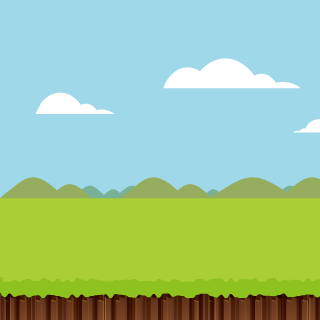
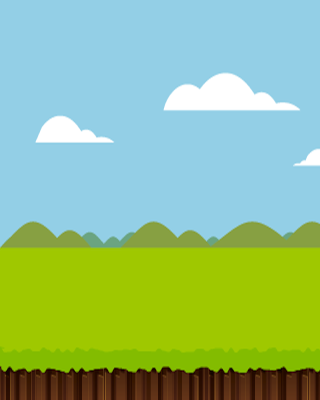
スマホサイズに調整

diff --git a/works/012/js/main.js b/works/012/js/main.js
@@ -1,7 +1,7 @@
 enchant(); // 初期化
  
 window.onload = function() {
-    var game = new Game(320, 320); // ゲーム本体を準備すると同時に、表示される領域の大きさを設定しています。
+    var game = new Game(320, 400); // ゲーム本体を準備すると同時に、表示される領域の大きさを設定しています。
     game.fps = 24; // frames（フレーム）per（毎）second（秒）：ゲームの進行スピードを設定しています。
     game.preload('./img/bg1.png','./img/chara1.png','./img/icon0.png','./img/start.png','./img/gameover.png'); // pre（前）-load（読み込み）：ゲームに使う素材をあらかじめ読み込んでおきます。
 
@@ -21,7 +21,7 @@ window.onload = function() {
             var startImage = new Sprite(236, 48);                   // スプライトを作る
             startImage.image = game.assets['./img/start.png'];     // スタート画像を設定
             startImage.x = 42;                                      // 横位置調整
-            startImage.y = 136;                                     // 縦位置調整
+            startImage.y = 176;                                     // 縦位置調整
             scene.addChild(startImage);                             // シーンに追加
 
             // タイトルラベル設定
@@ -29,7 +29,7 @@ window.onload = function() {
             title.textAlign = 'center';                             // 文字を中央寄せ
             title.color = '#ffffff';                                // 文字を白色に
             title.x = 0;                                           // 横位置調整
-            title.y = 96;                                           // 縦位置調整
+            title.y = 136;                                           // 縦位置調整
             title.font = '28px sans-serif';                         // 28pxのゴシック体にする
             scene.addChild(title);                                  // シーンに追加
 
@@ -37,7 +37,7 @@ window.onload = function() {
             var subTitle = new Label('- ひたすら爆弾をよけるゲーム  -');  // ラベルを作る
             subTitle.textAlign = 'center';                          // 文字中央寄せ
             subTitle.x = 0;                                         // 横位置調整
-            subTitle.y = 196;                                       // 縦位置調整
+            subTitle.y = 236;                                       // 縦位置調整
             subTitle.font = '14px sans-serif';                      // 14pxのゴシック体にする
             scene.addChild(subTitle);                               // シーンに追加
 
@@ -61,7 +61,7 @@ window.onload = function() {
             var scene = new Scene();                            // 新しいシーンを作る
 
             // 背景
-            var bg1 = new Sprite(320, 320);            // スプライトを作る
+            var bg1 = new Sprite(320, 400);            // スプライトを作る
             bg1.image = game.assets['./img/bg1.png']; // 画像を設定
             scene.addChild(bg1);                       // シーンに追加
             bg1.x = 0;                                 // 横位置調整
@@ -79,7 +79,7 @@ window.onload = function() {
             var kuma = new Sprite(32, 32);  // くまというスプライト(操作可能な画像)を準備すると同時に、スプライトの表示される領域の大きさを設定しています。
             kuma.image = game.assets['./img/chara1.png']; // くまにあらかじめロードしておいた画像を適用します。
             kuma.x = 100; // くまの横位置を設定します。
-            kuma.y = 250; // くまの縦位置を設定します。
+            kuma.y = 300; // くまの縦位置を設定します。
             scene.addChild(kuma); // ゲームのシーンにくまを表示させます。
             kuma.frame = [0, 0, 1, 1, 2, 2];   // select sprite frame
             scene.backgroundColor  = '#7ecef4'; // ゲームの動作部分の背景色を設定しています。
@@ -219,6 +219,12 @@ window.onload = function() {
                     scene.removeChild(ob6);
                     ob6 = makeOb();
                 }
+                if(item.y > 320){
+                    scene.removeChild(item);
+                }
+                if(item2.y > 320){
+                    scene.removeChild(item2);
+                }
                 if(item.y > 320+itemPer){
                     item = makeItem();
                     itemPer = 50 + Math.floor(Math.random() * 640);
@@ -294,7 +300,7 @@ window.onload = function() {
             var gameoverImage = new Sprite(189, 97);                   // スプライトを作る
             gameoverImage.image = game.assets['./img/gameover.png'];  // ゲームオーバー画像を設定
             gameoverImage.x = 65;                                      // 横位置調整
-            gameoverImage.y = 112;                                     // 縦位置調整
+            gameoverImage.y = 152;                                     // 縦位置調整
             scene.addChild(gameoverImage);                             // シーンに追加
 
             // スコアラベル設定
@@ -302,15 +308,15 @@ window.onload = function() {
             label.textAlign = 'center';                                // 文字を中央寄せ
             label.color = '#ffffff';                                      // 文字を白色に
             label.x = 0;                                               // 横位置調整
-            label.y = 60;                                              // 縦位置調整
+            label.y = 100;                                              // 縦位置調整
             label.font = '40px sans-serif';                            // 40pxのゴシック体にする
             scene.addChild(label);                                     // シーンに追加
 
             // リトライラベル(ボタン)設定
             var retryLabel = new Label('TRY AGAIN');                // ラベルを作る
             retryLabel.color = '#ffffff';                              // 文字を白色に
-            retryLabel.x = 0;                                          // 横位置調整
-            retryLabel.y = 300;                                        // 縦位置調整
+            retryLabel.x = 20;                                          // 横位置調整
+            retryLabel.y = 350;                                        // 縦位置調整
             retryLabel.font = '20px sans-serif';                       // 20pxのゴシック体にする
             scene.addChild(retryLabel);                                // シーンに追加
 

diff --git a/works/012/index.html b/works/012/index.html
@@ -3,12 +3,13 @@
   <head>
     <meta charset="utf-8">
     <title>くまげー</title>
-    <meta name="viewport" content="width=device-width,initial-scale=1.0,maximum-scale=1.0,user-scalable=no">
     <script src="./js/lib/enchant.js"></script>
     <script src="./js/main.js"></script>
+    <meta name="viewport" content="width=device-width,initial-scale=1.0,maximum-scale=1.0,user-scalable=no">
     <link rel='stylesheet' href='style.css' type='text/css'>
   </head>
   <body style="background: #000;">
+  
   <!-- ここにゲームが表示されます。 -->
   </body>
 </html>
